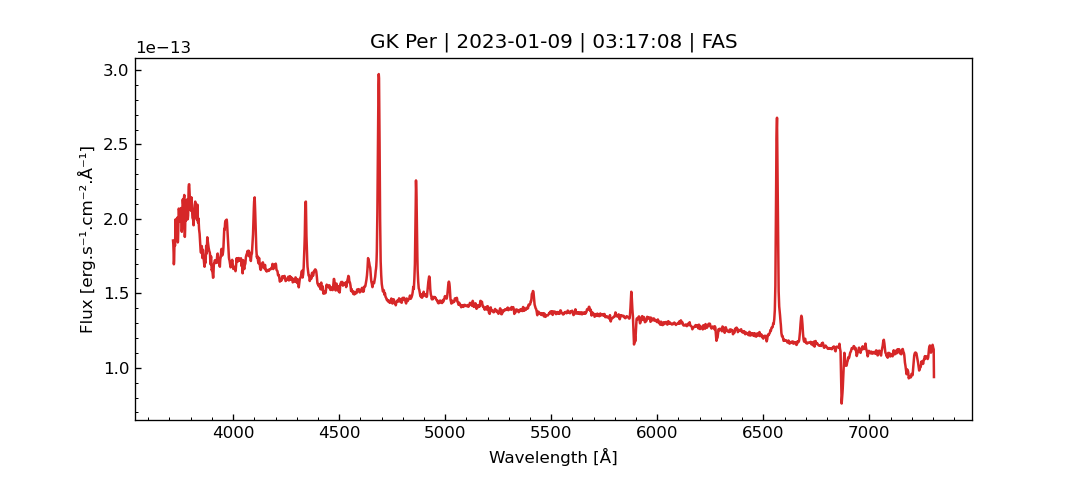
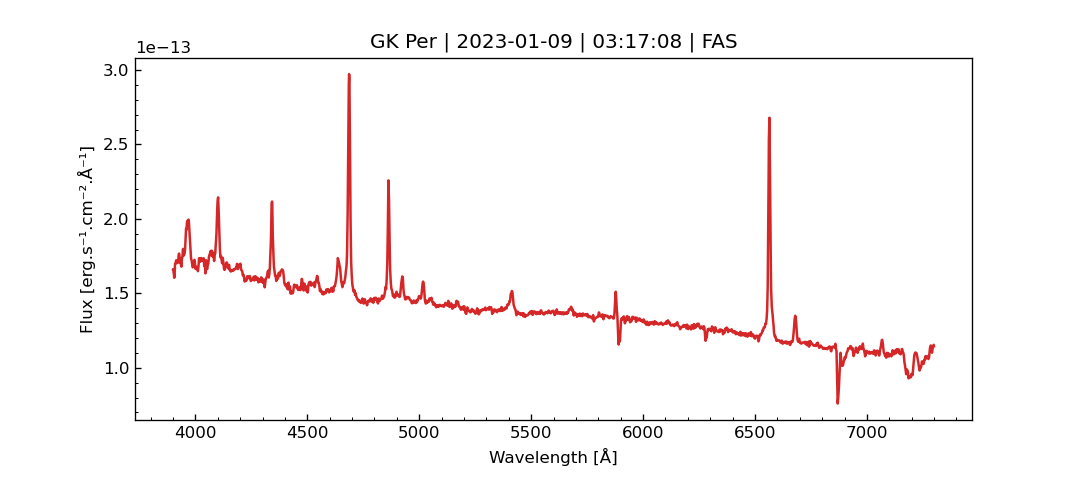
203-01-11

diff --git a/gkper.html b/gkper.html
@@ -77,7 +77,7 @@
     <div class="card">
       <div class="card-body">
 
-        <p class="card-text">Number of spectra:   41</p>
+        <p class="card-text">Number of spectra:   42</p>
 <p class="card-text">First spectrum:   2015-04-12</p>
 <p class="card-text">Last spectrum:   2023-01-09</p>
 <br>
@@ -726,6 +726,21 @@
       <td><svg xmlns="http://www.w3.org/2000/svg" width="5" height="16" fill="#007bff" class="bi bi-square-fill" viewBox="1 0 5 16"><path d="M0 2a2 2 0 0 1 2-2h12a2 2 0 0 1 2 2v12a2 2 0 0 1-2 2H2a2 2 0 0 1-2-2V2z"/></svg><svg xmlns="http://www.w3.org/2000/svg" width="5" height="16" fill="#007bff" class="bi bi-square-fill" viewBox="1 0 5 16"><path d="M0 2a2 2 0 0 1 2-2h12a2 2 0 0 1 2 2v12a2 2 0 0 1-2 2H2a2 2 0 0 1-2-2V2z"/></svg></td>
       <td>3717</td>
       <td>7306</td>
+      <td><svg xmlns="http://www.w3.org/2000/svg" width="5" height="16" fill="#151B8D" class="bi bi-square-fill" viewBox="1 0 5 16"><path d="M0 2a2 2 0 0 1 2-2h12a2 2 0 0 1 2 2v12a2 2 0 0 1-2 2H2a2 2 0 0 1-2-2V2z"/></svg><svg xmlns="http://www.w3.org/2000/svg" width="5" height="16" fill="#4AA02C" class="bi bi-square-fill" viewBox="1 0 5 16"><path d="M0 2a2 2 0 0 1 2-2h12a2 2 0 0 1 2 2v12a2 2 0 0 1-2 2H2a2 2 0 0 1-2-2V2z"/></svg><svg xmlns="http://www.w3.org/2000/svg" width="5" height="16" fill="#EAC117" class="bi bi-square-fill" viewBox="1 0 5 16"><path d="M0 2a2 2 0 0 1 2-2h12a2 2 0 0 1 2 2v12a2 2 0 0 1-2 2H2a2 2 0 0 1-2-2V2z"/></svg><svg xmlns="http://www.w3.org/2000/svg" width="5" height="16" fill="#E42217" class="bi bi-square-fill" viewBox="1 0 5 16"><path d="M0 2a2 2 0 0 1 2-2h12a2 2 0 0 1 2 2v12a2 2 0 0 1-2 2H2a2 2 0 0 1-2-2V2z"/></svg></td>
+      <td><a href="spectra/asdb_gkper_20230109_136.fit" download target="_blank"><svg width="1em" height="1em" viewBox="0 0 16 16" class="bi bi-download" fill="currentColor" xmlns="http://www.w3.org/2000/svg"><path fill-rule="evenodd" d="M.5 8a.5.5 0 0 1 .5.5V12a1 1 0 0 0 1 1h12a1 1 0 0 0 1-1V8.5a.5.5 0 0 1 1 0V12a2 2 0 0 1-2 2H2a2 2 0 0 1-2-2V8.5A.5.5 0 0 1 .5 8z"/><path fill-rule="evenodd" d="M5 7.5a.5.5 0 0 1 .707 0L8 9.793 10.293 7.5a.5.5 0 1 1 .707.707l-2.646 2.647a.5.5 0 0 1-.708 0L5 8.207A.5.5 0 0 1 5 7.5z"/><path fill-rule="evenodd" d="M8 1a.5.5 0 0 1 .5.5v8a.5.5 0 0 1-1 0v-8A.5.5 0 0 1 8 1z"/></svg></a></td>
+      <td><a href="figures/asdb_gkper_20230109_136.png" target="_blank"><svg width="1em" height="1em" viewBox="0 0 16 16" class="bi bi-eye" fill="currentColor" xmlns="http://www.w3.org/2000/svg"><path fill-rule="evenodd" d="M16 8s-3-5.5-8-5.5S0 8 0 8s3 5.5 8 5.5S16 8 16 8zM1.173 8a13.134 13.134 0 0 0 1.66 2.043C4.12 11.332 5.88 12.5 8 12.5c2.12 0 3.879-1.168 5.168-2.457A13.134 13.134 0 0 0 14.828 8a13.133 13.133 0 0 0-1.66-2.043C11.879 4.668 10.119 3.5 8 3.5c-2.12 0-3.879 1.168-5.168 2.457A13.133 13.133 0 0 0 1.172 8z"/><path fill-rule="evenodd" d="M8 5.5a2.5 2.5 0 1 0 0 5 2.5 2.5 0 0 0 0-5zM4.5 8a3.5 3.5 0 1 1 7 0 3.5 3.5 0 0 1-7 0z"/></svg></a></td>
+      <td></td>
+    </tr>
+    <tr>
+      <td>2023-01-09</td>
+      <td>03:17</td>
+      <td>59953.637</td>
+      <td>FAS</td>
+      <td>DCO-US</td>
+      <td>1067</td>
+      <td><svg xmlns="http://www.w3.org/2000/svg" width="5" height="16" fill="#007bff" class="bi bi-square-fill" viewBox="1 0 5 16"><path d="M0 2a2 2 0 0 1 2-2h12a2 2 0 0 1 2 2v12a2 2 0 0 1-2 2H2a2 2 0 0 1-2-2V2z"/></svg><svg xmlns="http://www.w3.org/2000/svg" width="5" height="16" fill="#007bff" class="bi bi-square-fill" viewBox="1 0 5 16"><path d="M0 2a2 2 0 0 1 2-2h12a2 2 0 0 1 2 2v12a2 2 0 0 1-2 2H2a2 2 0 0 1-2-2V2z"/></svg></td>
+      <td>3900</td>
+      <td>7301</td>
       <td><svg xmlns="http://www.w3.org/2000/svg" width="5" height="16" fill="#151B8D" class="bi bi-square-fill" viewBox="1 0 5 16"><path d="M0 2a2 2 0 0 1 2-2h12a2 2 0 0 1 2 2v12a2 2 0 0 1-2 2H2a2 2 0 0 1-2-2V2z"/></svg><svg xmlns="http://www.w3.org/2000/svg" width="5" height="16" fill="#4AA02C" class="bi bi-square-fill" viewBox="1 0 5 16"><path d="M0 2a2 2 0 0 1 2-2h12a2 2 0 0 1 2 2v12a2 2 0 0 1-2 2H2a2 2 0 0 1-2-2V2z"/></svg><svg xmlns="http://www.w3.org/2000/svg" width="5" height="16" fill="#EAC117" class="bi bi-square-fill" viewBox="1 0 5 16"><path d="M0 2a2 2 0 0 1 2-2h12a2 2 0 0 1 2 2v12a2 2 0 0 1-2 2H2a2 2 0 0 1-2-2V2z"/></svg><svg xmlns="http://www.w3.org/2000/svg" width="5" height="16" fill="#E42217" class="bi bi-square-fill" viewBox="1 0 5 16"><path d="M0 2a2 2 0 0 1 2-2h12a2 2 0 0 1 2 2v12a2 2 0 0 1-2 2H2a2 2 0 0 1-2-2V2z"/></svg></td>
       <td><a href="spectra/asdb_gkper_20230109_136.fit" download target="_blank"><svg width="1em" height="1em" viewBox="0 0 16 16" class="bi bi-download" fill="currentColor" xmlns="http://www.w3.org/2000/svg"><path fill-rule="evenodd" d="M.5 8a.5.5 0 0 1 .5.5V12a1 1 0 0 0 1 1h12a1 1 0 0 0 1-1V8.5a.5.5 0 0 1 1 0V12a2 2 0 0 1-2 2H2a2 2 0 0 1-2-2V8.5A.5.5 0 0 1 .5 8z"/><path fill-rule="evenodd" d="M5 7.5a.5.5 0 0 1 .707 0L8 9.793 10.293 7.5a.5.5 0 1 1 .707.707l-2.646 2.647a.5.5 0 0 1-.708 0L5 8.207A.5.5 0 0 1 5 7.5z"/><path fill-rule="evenodd" d="M8 1a.5.5 0 0 1 .5.5v8a.5.5 0 0 1-1 0v-8A.5.5 0 0 1 8 1z"/></svg></a></td>
       <td><a href="figures/asdb_gkper_20230109_136.png" target="_blank"><svg width="1em" height="1em" viewBox="0 0 16 16" class="bi bi-eye" fill="currentColor" xmlns="http://www.w3.org/2000/svg"><path fill-rule="evenodd" d="M16 8s-3-5.5-8-5.5S0 8 0 8s3 5.5 8 5.5S16 8 16 8zM1.173 8a13.134 13.134 0 0 0 1.66 2.043C4.12 11.332 5.88 12.5 8 12.5c2.12 0 3.879-1.168 5.168-2.457A13.134 13.134 0 0 0 14.828 8a13.133 13.133 0 0 0-1.66-2.043C11.879 4.668 10.119 3.5 8 3.5c-2.12 0-3.879 1.168-5.168 2.457A13.133 13.133 0 0 0 1.172 8z"/><path fill-rule="evenodd" d="M8 5.5a2.5 2.5 0 1 0 0 5 2.5 2.5 0 0 0 0-5zM4.5 8a3.5 3.5 0 1 1 7 0 3.5 3.5 0 0 1-7 0z"/></svg></a></td>

diff --git a/dwarf_novae.html b/dwarf_novae.html
@@ -70,8 +70,8 @@
 
  <style>table {text-align: center;}table thead th {text-align: center;}</style>
 <p class="card-text">Number of stars: 33
-</p><p class="card-text">Number of spectra: 334
-</p><p class="card-text">Last update: 2023-01-10, 08:43</p>
+</p><p class="card-text">Number of spectra: 335
+</p><p class="card-text">Last update: 2023-01-11, 07:56</p>
 <br><br>
 <a href="observers.html" class="btn btn-secondary">Observers</a>
         <a href="observatories.html" class="btn btn-secondary">Observatories</a>
@@ -162,7 +162,7 @@
       <td><a href="gkper.html">GK Per</a></td>
       <td>03 31 12.01</td>
       <td>+43 54 15.47</td>
-      <td>41</td>
+      <td>42</td>
       <td>2015-04-12</td>
       <td>2023-01-09</td>
       <td><script>var date1, date2;date1 = new Date();date2 = new Date( "2023-01-09 00:00:00" );var res = Math.abs(date1 - date2) / 1000;var days = Math.floor(res / 86400);document.write(days);</script></td>

diff --git a/symbiotics.html b/symbiotics.html
@@ -74,7 +74,7 @@
  <style>table {text-align: center;}table thead th {text-align: center;}</style>
 <p class="card-text">Number of stars: 103
 </p><p class="card-text">Number of spectra: 7929
-</p><p class="card-text">Last update: 2023-01-10, 08:43</p>
+</p><p class="card-text">Last update: 2023-01-11, 07:56</p>
 <br><br>
 <a href="observers.html" class="btn btn-secondary">Observers</a>
         <a href="observatories.html" class="btn btn-secondary">Observatories</a>

diff --git a/novae.html b/novae.html
@@ -71,7 +71,7 @@
  <style>table {text-align: center;}table thead th {text-align: center;}</style>
 <p class="card-text">Number of stars: 63
 </p><p class="card-text">Number of spectra: 3941
-</p><p class="card-text">Last update: 2023-01-10, 08:43</p>
+</p><p class="card-text">Last update: 2023-01-11, 07:56</p>
 <br><br>
 <a href="observers.html" class="btn btn-secondary">Observers</a>
         <a href="observatories.html" class="btn btn-secondary">Observatories</a>
